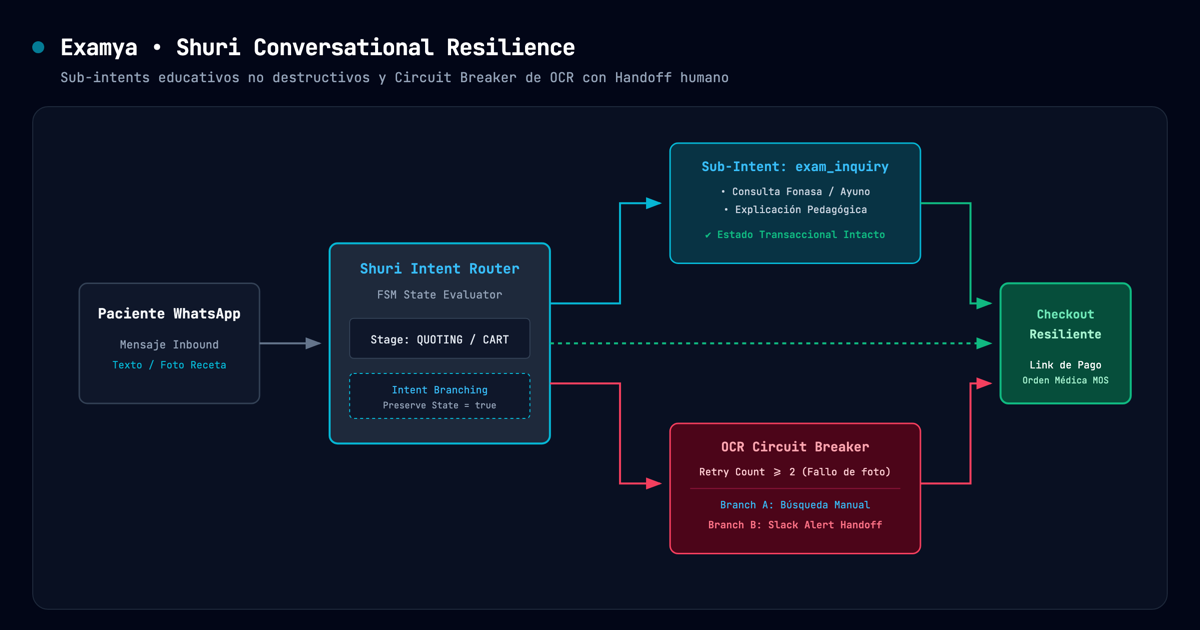
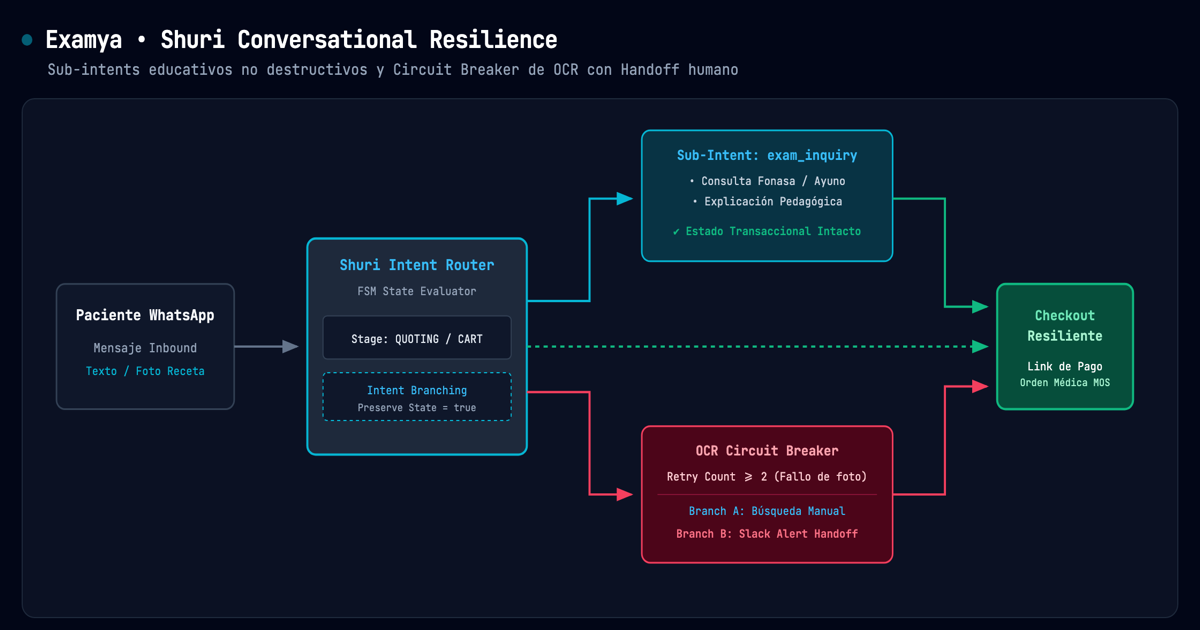
fix(blog): add smooth horizontal scrolling and compact height to conversational resilience diagram

diff --git a/public/img/blog/whatsapp-conversational-resilience.html b/public/img/blog/whatsapp-conversational-resilience.html
@@ -7,29 +7,51 @@
   <link href="https://fonts.googleapis.com/css2?family=JetBrains+Mono:wght@400;500;600;700&display=swap" rel="stylesheet">
   <style>
     * { margin: 0; padding: 0; box-sizing: border-box; }
-    body {
+    html, body {
       font-family: 'JetBrains Mono', monospace;
       background: #020617;
-      min-height: 100vh;
-      padding: 2rem;
       color: white;
-      width: 1200px;
-      height: 630px;
-      overflow: hidden;
-      margin: 0 auto;
+      height: 100%;
+      overflow-x: auto;
+      overflow-y: hidden;
+      -webkit-overflow-scrolling: touch;
     }
-    .container { width: 100%; height: 100%; display: flex; flex-direction: column; }
-    .header { margin-bottom: 1.25rem; }
-    .header-row { display: flex; align-items: center; gap: 1rem; margin-bottom: 0.35rem; }
-    .pulse-dot { width: 12px; height: 12px; background: #06b6d4; border-radius: 50%; animation: pulse 2s infinite; }
-    @keyframes pulse { 0%, 100% { opacity: 1; } 50% { opacity: 0.5; } }
-    h1 { font-size: 1.4rem; font-weight: 700; letter-spacing: -0.025em; }
-    .subtitle { color: #94a3b8; font-size: 0.85rem; margin-left: 1.75rem; }
-    .diagram-container {
-      background: rgba(15, 23, 42, 0.6);
-      border-radius: 1rem;
+    /* Scrollbar personalizada y elegante */
+    ::-webkit-scrollbar {
+      height: 8px;
+      width: 8px;
+    }
+    ::-webkit-scrollbar-track {
+      background: #0f172a;
+      border-radius: 4px;
+    }
+    ::-webkit-scrollbar-thumb {
+      background: #334155;
+      border-radius: 4px;
       border: 1px solid #1e293b;
-      padding: 1rem;
+    }
+    ::-webkit-scrollbar-thumb:hover {
+      background: #06b6d4;
+    }
+    .wrapper {
+      min-width: 1120px;
+      width: 1120px;
+      height: 540px;
+      padding: 1.25rem;
+      display: flex;
+      flex-direction: column;
+    }
+    .header { margin-bottom: 1rem; }
+    .header-row { display: flex; align-items: center; gap: 0.75rem; margin-bottom: 0.25rem; }
+    .pulse-dot { width: 10px; height: 10px; background: #06b6d4; border-radius: 50%; animation: pulse 2s infinite; }
+    @keyframes pulse { 0%, 100% { opacity: 1; } 50% { opacity: 0.5; } }
+    h1 { font-size: 1.3rem; font-weight: 700; letter-spacing: -0.025em; }
+    .subtitle { color: #94a3b8; font-size: 0.82rem; margin-left: 1.5rem; }
+    .diagram-container {
+      background: rgba(15, 23, 42, 0.7);
+      border-radius: 0.75rem;
+      border: 1px solid #1e293b;
+      padding: 0.75rem;
       flex-grow: 1;
       position: relative;
     }
@@ -37,7 +59,7 @@
   </style>
 </head>
 <body>
-  <div class="container">
+  <div class="wrapper">
     <div class="header">
       <div class="header-row">
         <div class="pulse-dot"></div>
@@ -47,7 +69,7 @@
     </div>
 
     <div class="diagram-container">
-      <svg viewBox="0 0 1100 470">
+      <svg viewBox="0 0 1080 430">
         <defs>
           <marker id="arrow" markerWidth="8" markerHeight="6" refX="7" refY="3" orient="auto">
             <polygon points="0 0, 8 3, 0 6" fill="#64748b" />
@@ -64,73 +86,73 @@
         </defs>
 
         <!-- COLUMNA 1: PACIENTE & MENSAJE -->
-        <g transform="translate(30, 160)">
-          <rect width="180" height="120" rx="8" fill="#0f172a" stroke="#334155" stroke-width="1.5" />
-          <text x="90" y="35" fill="#f8fafc" font-size="14" font-weight="700" text-anchor="middle">Paciente WhatsApp</text>
-          <text x="90" y="65" fill="#94a3b8" font-size="11" text-anchor="middle">Mensaje Inbound</text>
-          <text x="90" y="85" fill="#06b6d4" font-size="10" text-anchor="middle">Texto / Foto Receta</text>
+        <g transform="translate(20, 150)">
+          <rect width="170" height="110" rx="8" fill="#0f172a" stroke="#334155" stroke-width="1.5" />
+          <text x="85" y="32" fill="#f8fafc" font-size="13" font-weight="700" text-anchor="middle">Paciente WhatsApp</text>
+          <text x="85" y="60" fill="#94a3b8" font-size="11" text-anchor="middle">Mensaje Inbound</text>
+          <text x="85" y="80" fill="#06b6d4" font-size="10" text-anchor="middle">Texto / Foto Receta</text>
         </g>
 
         <!-- FLECHA 1 -> ROUTER -->
-        <line x1="210" y1="220" x2="270" y2="220" stroke="#64748b" stroke-width="2" marker-end="url(#arrow)" />
+        <line x1="190" y1="205" x2="250" y2="205" stroke="#64748b" stroke-width="2" marker-end="url(#arrow)" />
 
         <!-- COLUMNA 2: INTENT ROUTER -->
-        <g transform="translate(280, 120)">
-          <rect width="220" height="200" rx="8" fill="#1e293b" stroke="#06b6d4" stroke-width="2" />
-          <text x="110" y="30" fill="#38bdf8" font-size="14" font-weight="700" text-anchor="middle">Shuri Intent Router</text>
-          <text x="110" y="55" fill="#94a3b8" font-size="11" text-anchor="middle">FSM State Evaluator</text>
+        <g transform="translate(260, 110)">
+          <rect width="210" height="190" rx="8" fill="#1e293b" stroke="#06b6d4" stroke-width="2" />
+          <text x="105" y="28" fill="#38bdf8" font-size="13" font-weight="700" text-anchor="middle">Shuri Intent Router</text>
+          <text x="105" y="50" fill="#94a3b8" font-size="10" text-anchor="middle">FSM State Evaluator</text>
           
-          <rect x="20" y="75" width="180" height="40" rx="4" fill="#0f172a" stroke="#334155" />
-          <text x="110" y="100" fill="#e2e8f0" font-size="11" text-anchor="middle">Stage: QUOTING / CART</text>
+          <rect x="15" y="68" width="180" height="38" rx="4" fill="#0f172a" stroke="#334155" />
+          <text x="105" y="92" fill="#e2e8f0" font-size="10" text-anchor="middle">Stage: QUOTING / CART</text>
 
-          <rect x="20" y="130" width="180" height="45" rx="4" fill="#0f172a" stroke="#06b6d4" stroke-dasharray="3,3" />
-          <text x="110" y="150" fill="#38bdf8" font-size="10" text-anchor="middle">Intent Branching</text>
-          <text x="110" y="165" fill="#94a3b8" font-size="9" text-anchor="middle">Preserve State = true</text>
+          <rect x="15" y="118" width="180" height="42" rx="4" fill="#0f172a" stroke="#06b6d4" stroke-dasharray="3,3" />
+          <text x="105" y="137" fill="#38bdf8" font-size="10" text-anchor="middle">Intent Branching</text>
+          <text x="105" y="152" fill="#94a3b8" font-size="9" text-anchor="middle">Preserve State = true</text>
         </g>
 
         <!-- BIFURCACION 1: SUB-INTENT EDUCATIVO (ARRIBA) -->
-        <path d="M 500 180 L 570 180 L 570 80 L 610 80" fill="none" stroke="#06b6d4" stroke-width="2" marker-end="url(#arrow-cyan)" />
+        <path d="M 470 165 L 530 165 L 530 75 L 570 75" fill="none" stroke="#06b6d4" stroke-width="2" marker-end="url(#arrow-cyan)" />
 
         <!-- CAJA EDUCATIVA -->
-        <g transform="translate(620, 20)">
-          <rect width="250" height="120" rx="8" fill="#083344" stroke="#06b6d4" stroke-width="1.5" />
-          <text x="125" y="28" fill="#38bdf8" font-size="13" font-weight="700" text-anchor="middle">Sub-Intent: exam_inquiry</text>
-          <text x="125" y="52" fill="#cbd5e1" font-size="10" text-anchor="middle">• Consulta Fonasa / Ayuno</text>
-          <text x="125" y="70" fill="#cbd5e1" font-size="10" text-anchor="middle">• Explicación Pedagógica</text>
-          <text x="125" y="95" fill="#10b981" font-size="10" font-weight="600" text-anchor="middle">✔ Estado Transaccional Intacto</text>
+        <g transform="translate(580, 15)">
+          <rect width="240" height="115" rx="8" fill="#083344" stroke="#06b6d4" stroke-width="1.5" />
+          <text x="120" y="26" fill="#38bdf8" font-size="12" font-weight="700" text-anchor="middle">Sub-Intent: exam_inquiry</text>
+          <text x="120" y="48" fill="#cbd5e1" font-size="10" text-anchor="middle">• Consulta Fonasa / Ayuno</text>
+          <text x="120" y="66" fill="#cbd5e1" font-size="10" text-anchor="middle">• Explicación Pedagógica</text>
+          <text x="120" y="92" fill="#10b981" font-size="10" font-weight="600" text-anchor="middle">✔ Estado Transaccional Intacto</text>
         </g>
 
         <!-- RETORNO EDUCATIVO AL CHECKOUT -->
-        <path d="M 870 80 L 920 80 L 920 180 L 940 180" fill="none" stroke="#10b981" stroke-width="2" marker-end="url(#arrow-emerald)" />
+        <path d="M 820 75 L 870 75 L 870 170 L 910 170" fill="none" stroke="#10b981" stroke-width="2" marker-end="url(#arrow-emerald)" />
 
         <!-- BIFURCACION 2: FLUJO TRANSACCIONAL CONTINUO (CENTRO) -->
-        <line x1="500" y1="220" x2="940" y2="220" stroke="#10b981" stroke-width="2" stroke-dasharray="4,4" marker-end="url(#arrow-emerald)" />
+        <line x1="470" y1="205" x2="910" y2="205" stroke="#10b981" stroke-width="2" stroke-dasharray="4,4" marker-end="url(#arrow-emerald)" />
 
         <!-- BIFURCACION 3: OCR CIRCUIT BREAKER (ABAJO) -->
-        <path d="M 500 260 L 570 260 L 570 360 L 610 360" fill="none" stroke="#f43f5e" stroke-width="2" marker-end="url(#arrow-rose)" />
+        <path d="M 470 245 L 530 245 L 530 335 L 570 335" fill="none" stroke="#f43f5e" stroke-width="2" marker-end="url(#arrow-rose)" />
 
         <!-- CAJA OCR CIRCUIT BREAKER -->
-        <g transform="translate(620, 300)">
-          <rect width="250" height="130" rx="8" fill="#4c0519" stroke="#f43f5e" stroke-width="1.5" />
-          <text x="125" y="28" fill="#fda4af" font-size="13" font-weight="700" text-anchor="middle">OCR Circuit Breaker</text>
-          <text x="125" y="52" fill="#fecdd3" font-size="10" text-anchor="middle">Retry Count >= 2 (Fallo de foto)</text>
+        <g transform="translate(580, 275)">
+          <rect width="240" height="120" rx="8" fill="#4c0519" stroke="#f43f5e" stroke-width="1.5" />
+          <text x="120" y="26" fill="#fda4af" font-size="12" font-weight="700" text-anchor="middle">OCR Circuit Breaker</text>
+          <text x="120" y="48" fill="#fecdd3" font-size="10" text-anchor="middle">Retry Count >= 2 (Fallo de foto)</text>
           
-          <line x1="20" y1="65" x2="230" y2="65" stroke="#881337" stroke-width="1" />
+          <line x1="15" y1="60" x2="225" y2="60" stroke="#881337" stroke-width="1" />
           
-          <text x="125" y="85" fill="#38bdf8" font-size="10" text-anchor="middle">Branch A: Búsqueda Manual</text>
-          <text x="125" y="105" fill="#fb7185" font-size="10" font-weight="600" text-anchor="middle">Branch B: Slack Alert Handoff</text>
+          <text x="120" y="78" fill="#38bdf8" font-size="10" text-anchor="middle">Branch A: Búsqueda Manual</text>
+          <text x="120" y="98" fill="#fb7185" font-size="10" font-weight="600" text-anchor="middle">Branch B: Slack Alert Handoff</text>
         </g>
 
         <!-- RETORNO DE OCR / HANDOFF A ASESOR O CHECKOUT -->
-        <path d="M 870 360 L 920 360 L 920 260 L 940 260" fill="none" stroke="#f43f5e" stroke-width="2" marker-end="url(#arrow-rose)" />
+        <path d="M 820 335 L 870 335 L 870 240 L 910 240" fill="none" stroke="#f43f5e" stroke-width="2" marker-end="url(#arrow-rose)" />
 
         <!-- COLUMNA 4: OUTCOME / CHECKOUT -->
-        <g transform="translate(950, 160)">
-          <rect width="130" height="120" rx="8" fill="#064e3b" stroke="#10b981" stroke-width="2" />
-          <text x="65" y="35" fill="#6ee7b7" font-size="12" font-weight="700" text-anchor="middle">Checkout</text>
-          <text x="65" y="55" fill="#a7f3d0" font-size="12" font-weight="700" text-anchor="middle">Resiliente</text>
-          <text x="65" y="85" fill="#ffffff" font-size="10" text-anchor="middle">Link de Pago</text>
-          <text x="65" y="100" fill="#a7f3d0" font-size="9" text-anchor="middle">Orden Médica MOS</text>
+        <g transform="translate(920, 150)">
+          <rect width="130" height="110" rx="8" fill="#064e3b" stroke="#10b981" stroke-width="2" />
+          <text x="65" y="32" fill="#6ee7b7" font-size="12" font-weight="700" text-anchor="middle">Checkout</text>
+          <text x="65" y="50" fill="#a7f3d0" font-size="12" font-weight="700" text-anchor="middle">Resiliente</text>
+          <text x="65" y="76" fill="#ffffff" font-size="10" text-anchor="middle">Link de Pago</text>
+          <text x="65" y="90" fill="#a7f3d0" font-size="9" text-anchor="middle">Orden Médica MOS</text>
         </g>
       </svg>
     </div>
